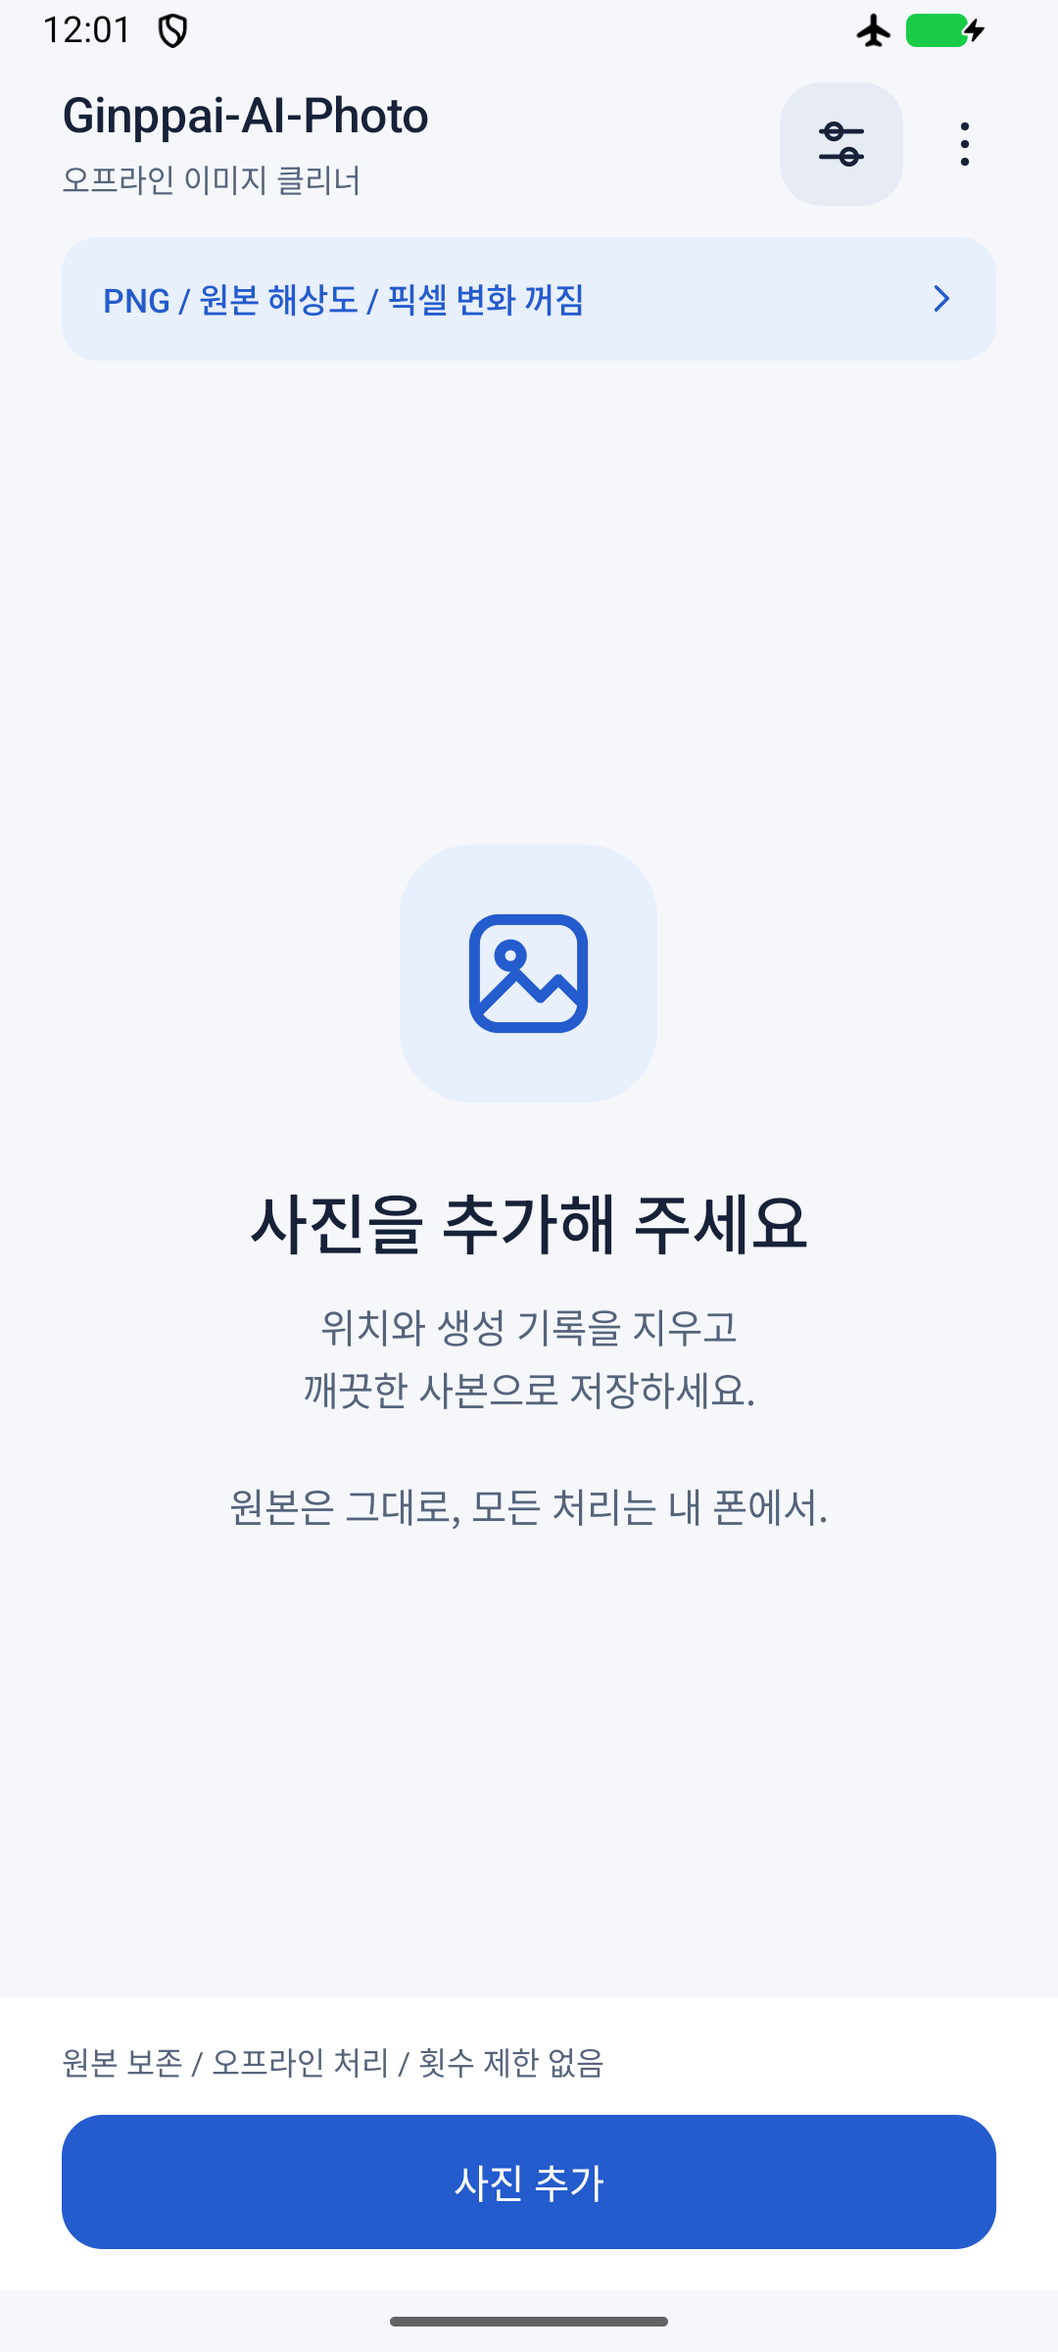
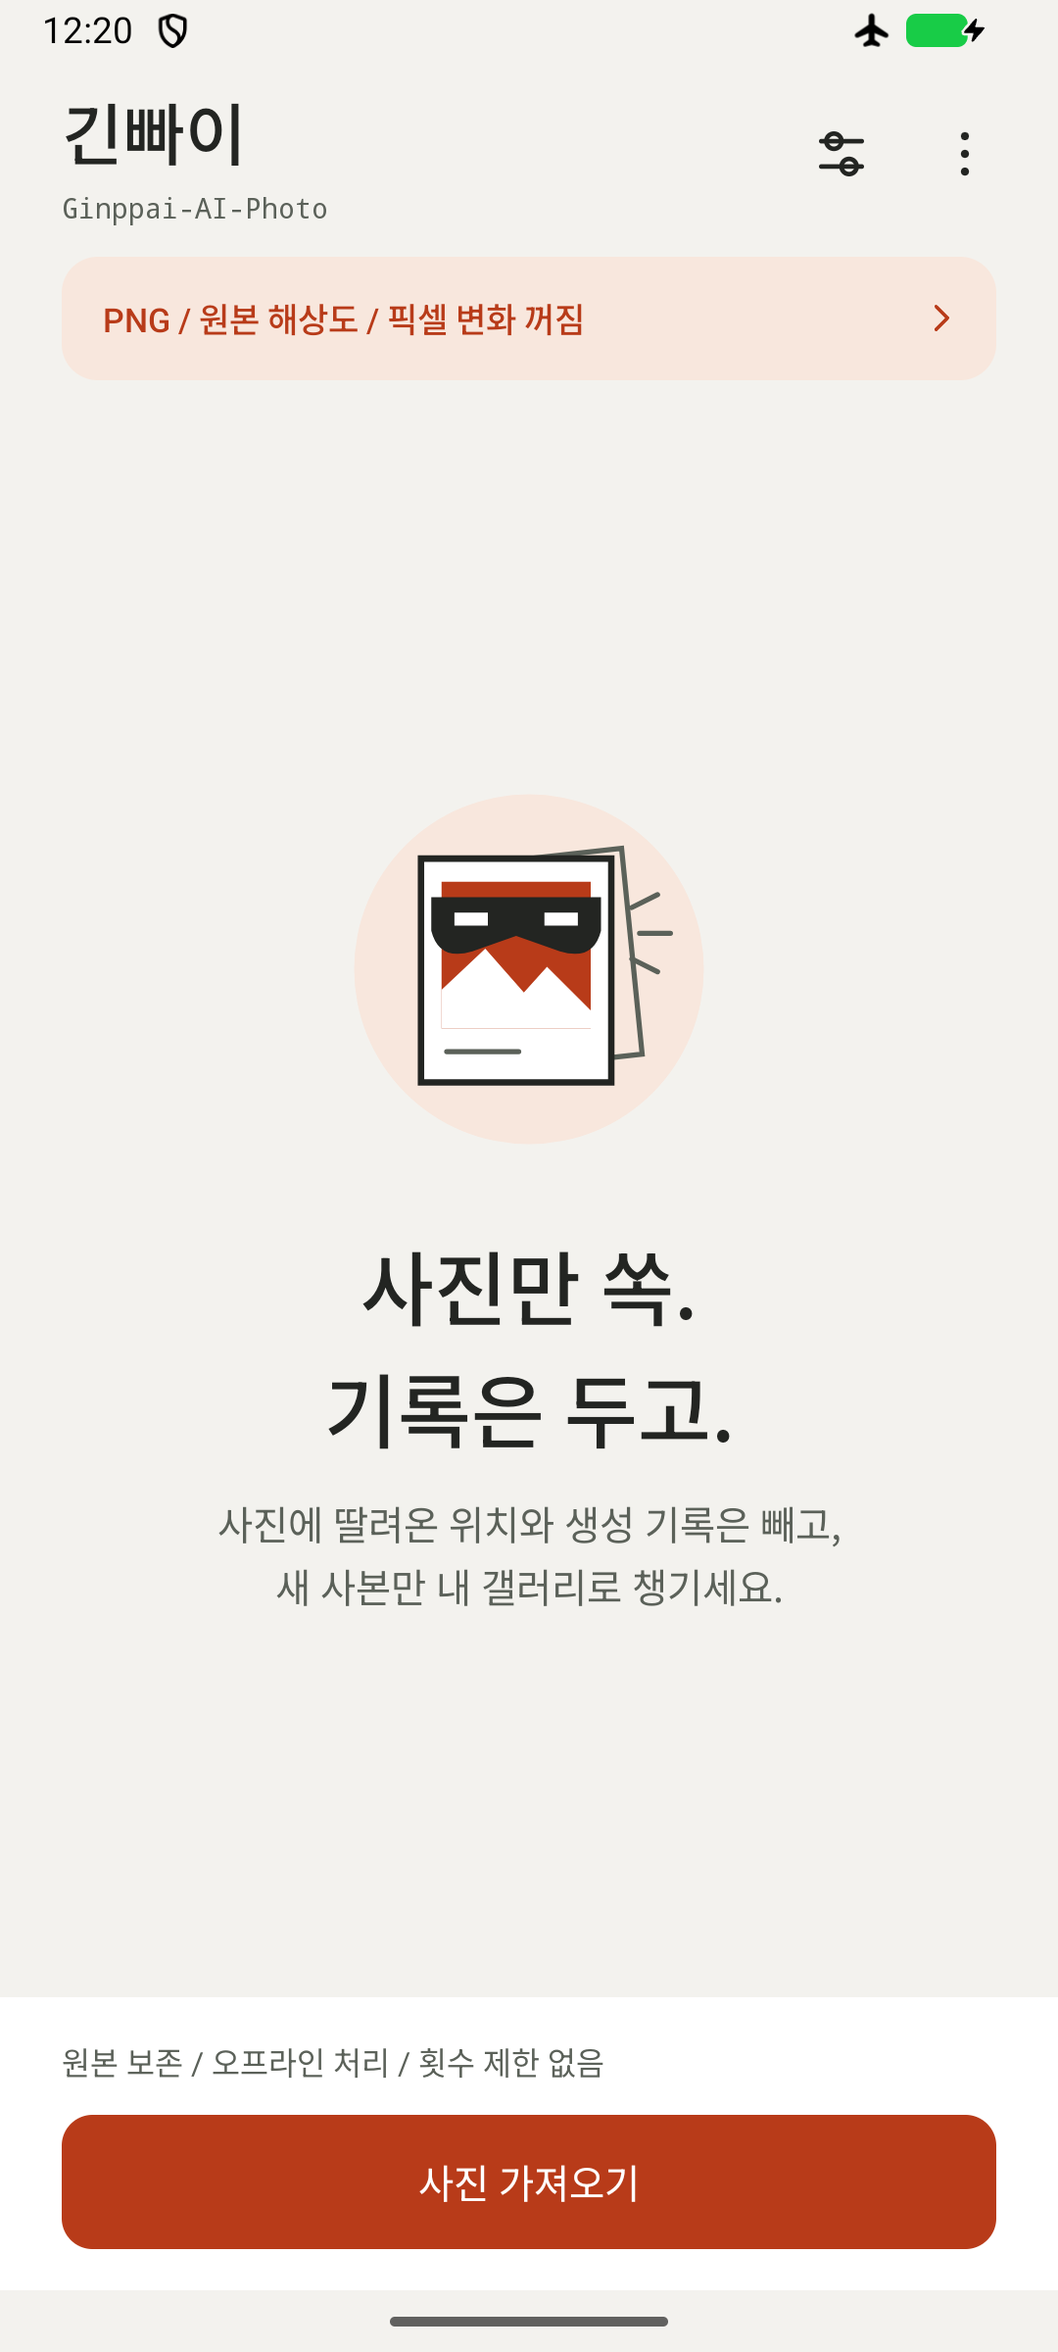
Release 1.3.0 with Ginppai branding and clear detection status

Changed region(s): [[0.2139, 0.3125, 0.7944, 0.6875], [0.0611, 0.0, 0.9472, 0.1875], [0.0611, 0.875, 0.9472, 0.9688]]

diff --git a/app/src/main/java/com/nogada/imageclean/MainActivity.java b/app/src/main/java/com/nogada/imageclean/MainActivity.java
@@ -117,7 +117,7 @@ public final class MainActivity extends Activity {
         button.setPadding(dp(16), dp(12), dp(16), dp(12));
         button.setTextColor(new ColorStateList(new int[][] {new int[] {-android.R.attr.state_enabled}, new int[] {}},
                 new int[] {color(R.color.secondary), color(filled ? R.color.on_accent : R.color.accent)}));
-        button.setBackground(Ui.ripple(this, filled ? R.color.accent : R.color.tint, 16));
+        button.setBackground(Ui.ripple(this, filled ? R.color.accent : R.color.tint, 12));
         return button;
     }
 
@@ -150,10 +150,14 @@ public final class MainActivity extends Activity {
         toolbar.setGravity(Gravity.CENTER_VERTICAL);
         toolbar.setPadding(dp(24), dp(8), dp(12), dp(8));
         LinearLayout branding = vertical();
-        TextView title = text(getString(R.string.app_name), 19, R.color.text, true);
+        TextView title = text("긴빠이", 26, R.color.text, true);
         title.setAccessibilityHeading(true);
         branding.addView(title);
-        if (!compact()) branding.addView(text("오프라인 이미지 클리너", 12, R.color.secondary, false), block(5));
+        if (!compact()) {
+            TextView wordmark = text(getString(R.string.app_name), 11, R.color.secondary, false);
+            wordmark.setTypeface(Typeface.MONOSPACE);
+            branding.addView(wordmark, block(5));
+        }
         toolbar.addView(branding, new LinearLayout.LayoutParams(0, -2, 1));
         settings = iconButton("settings", "저장 설정");
         settings.setId(R.id.settings_action);
@@ -226,12 +230,11 @@ public final class MainActivity extends Activity {
         empty.setGravity(Gravity.CENTER);
         empty.setPadding(dp(32), dp(20), dp(32), dp(20));
         ImageView illustration = new ImageView(this);
-        illustration.setImageDrawable(new Ui.Icon("photo", color(R.color.accent)));
-        illustration.setPadding(dp(22), dp(22), dp(22), dp(22));
-        illustration.setBackground(Ui.background(this, R.color.tint, 28));
+        illustration.setImageResource(R.drawable.ic_loot);
         illustration.setImportantForAccessibility(View.IMPORTANT_FOR_ACCESSIBILITY_NO);
-        if (!compact()) empty.addView(illustration, new LinearLayout.LayoutParams(dp(100), dp(100)));
-        emptyTitle = text("사진을 추가해 주세요", 25, R.color.text, true);
+        if (!compact()) empty.addView(illustration, new LinearLayout.LayoutParams(dp(144), dp(144)));
+        emptyTitle = text("", compact() ? 25 : 31, R.color.text, true);
+        emptyTitle.setId(R.id.empty_title);
         emptyTitle.setGravity(Gravity.CENTER);
         emptyTitle.setAccessibilityHeading(true);
         empty.addView(emptyTitle, block(compact() ? 0 : 28));
@@ -261,7 +264,7 @@ public final class MainActivity extends Activity {
         LinearLayout.LayoutParams addPosition = new LinearLayout.LayoutParams(dp(52), dp(52));
         addPosition.setMarginEnd(dp(12));
         actions.addView(add, addPosition);
-        primary = button("사진 추가", true);
+        primary = button("사진 가져오기", true);
         primary.setId(R.id.primary_action);
         primary.setOnClickListener(view -> startOrPause());
         actions.addView(primary, new LinearLayout.LayoutParams(0, -2, 1));
@@ -344,8 +347,14 @@ public final class MainActivity extends Activity {
         reprocess.setChecked(preferences.getBoolean("reprocess", false));
         content.addView(reprocess, block(20));
         content.addView(text("축소 후 복원과 색상 단순화로 일부 픽셀 신호를 약화합니다. 색상과 디테일이 손상될 수 있어요. 기본값은 꺼짐입니다.", 13, R.color.secondary, false), block(4));
-        content.addView(text("공개 워터마크 2종의 제한된 실험입니다. SynthID, 다른 워터마크와 AI 판별은 미검증이며, 검출되지 않아도 완전 제거를 뜻하지 않습니다.", 13, R.color.error, false), block(10));
-        content.addView(text("메타데이터 삭제와 AI 판별은 다릅니다. AI 표시나 보이지 않는 워터마크 제거는 보장하지 않습니다.", 13, R.color.secondary, false), block(20));
+        content.addView(text("SynthID 회피 기능이 아닙니다. 공개 워터마크 2종의 제한된 실험으로, 다른 워터마크와 AI 판별에는 효과가 검증되지 않았습니다.", 13, R.color.error, false), block(10));
+        Button detection = button("SynthID와 AI 표시 안내", false);
+        detection.setId(R.id.detection_info);
+        content.addView(detection, block(16));
+        detection.setOnClickListener(view -> new AlertDialog.Builder(this)
+                .setTitle("사진 저장과 AI 판별은 별개입니다")
+                .setMessage("파일 속 AI 생성 기록은 정리하지만 픽셀에 심긴 SynthID는 다릅니다.\n\n현재 앱에는 SynthID 검출기나 검증된 회피 기능이 없습니다. 실험 모드를 켜도 제거 성공으로 판정하지 않습니다.\n\nAI 표시 여부는 게시 플랫폼이 결정합니다. 메타데이터를 지워도 표시가 붙을 수 있습니다.")
+                .setPositiveButton("확인", null).show());
         Button apply = button("설정 적용", true);
         apply.setId(R.id.apply_settings);
         content.addView(apply, block(24));
@@ -378,7 +387,7 @@ public final class MainActivity extends Activity {
 
     private void showHelp() {
         LinearLayout content = vertical();
-        content.addView(text("1. 사진 선택\n여러 장을 고르거나 갤러리의 공유 메뉴에서 이 앱을 선택하세요.\n\n2. 정리하고 저장\n위치, 촬영 정보, 파일 안의 AI 생성 기록을 제거한 사본을 만듭니다. 원본은 그대로 둡니다.\n\n3. 바로 공유\n완료한 사진을 누르면 미리보기와 개별 공유가 가능합니다.", 15, R.color.text, false));
+        content.addView(text("사진만 쏙. 원본은 그대로.\n\n1. 사진 가져오기\n여러 장을 고르거나 갤러리의 공유 메뉴에서 긴빠이로 보내세요.\n\n2. 긴빠이하기\n위치, 촬영 정보, 파일 안의 AI 생성 기록을 덜어낸 새 사본을 갤러리에 저장합니다.\n\n3. 챙긴 사본 공유\n완료한 사진을 누르면 미리보기와 개별 공유가 가능합니다.\n\n저장 완료는 AI 판별 통과를 뜻하지 않습니다. SynthID 회피와 모든 워터마크 제거를 보장하지 않습니다.", 15, R.color.text, false));
         content.addView(text("저장 위치\nPictures/Ginppai-AI-Photo\n\n인터넷 연결, 계정, 광고, 사용 횟수 제한이 없습니다. 한 파일은 256 MB 이하이며 처리 가능 크기는 기기 메모리에 따라 달라집니다.\n\n동영상과 애니메이션은 지원하지 않습니다. 일부 HEIC/AVIF와 RAW는 기기 디코더에 따라 열리지 않을 수 있습니다.\n\n버전 " + BuildConfig.VERSION_NAME, 13, R.color.secondary, false), block(24));
         sheet("사용 안내", content);
     }
@@ -535,7 +544,7 @@ public final class MainActivity extends Activity {
         if ("done".equals(item.state)) return "저장 완료";
         if ("error".equals(item.state)) return "처리 실패";
         if ("missing".equals(item.state)) return "사본을 찾을 수 없음";
-        if ("working".equals(item.state) || "publishing".equals(item.state)) return "정리하는 중";
+        if ("working".equals(item.state) || "publishing".equals(item.state)) return "사본 챙기는 중";
         return "대기 중";
     }
 
@@ -568,9 +577,14 @@ public final class MainActivity extends Activity {
         content.addView(preview, new LinearLayout.LayoutParams(-1, dp(compact() ? 120 : 220)));
         loadPreview(preview, item.output.isEmpty() ? item.input : item.output, 480);
         content.addView(text(item.name, 16, R.color.text, true), block(16));
-        content.addView(text(item.details.isEmpty() ? "아래의 정리하기 버튼을 누르면 사본을 저장합니다." : item.details, 14, R.color.secondary, false), block(8));
+        content.addView(text(item.details.isEmpty() ? "홈의 긴빠이하기 버튼을 누르면 새 사본을 저장합니다." : item.details, 14, R.color.secondary, false), block(8));
         if ("done".equals(item.state)) {
             content.addView(text("갤러리에 저장된 사본입니다. 원본은 수정하지 않았습니다.", 13, R.color.secondary, false), block(12));
+            TextView detectionStatus = text("AI 검출: 검사하지 않음\nSynthID와 플랫폼 AI 표시는 저장 성공과 별개입니다.", 13, R.color.secondary, false);
+            detectionStatus.setId(R.id.detection_status);
+            detectionStatus.setPadding(dp(14), dp(12), dp(14), dp(12));
+            detectionStatus.setBackground(Ui.background(this, R.color.background, 10));
+            content.addView(detectionStatus, block(12));
             Button share = button("이 사진 공유", true);
             share.setOnClickListener(view -> { if (activeSheet != null) activeSheet.dismiss(); shareResults(item); });
             content.addView(share, block(20));
@@ -650,8 +664,8 @@ public final class MainActivity extends Activity {
         }
         filterBar.setVisibility(rows.isEmpty() ? View.GONE : View.VISIBLE);
         emptyState.setVisibility(visibleRows.isEmpty() ? View.VISIBLE : View.GONE);
-        emptyTitle.setText(rows.isEmpty() ? "사진을 추가해 주세요" : names[filter] + " 사진이 없습니다");
-        emptyBody.setText(rows.isEmpty() ? "위치와 생성 기록을 지우고\n깨끗한 사본으로 저장하세요.\n\n원본은 그대로, 모든 처리는 내 폰에서."
+        emptyTitle.setText(rows.isEmpty() ? "사진만 쏙.\n기록은 두고." : names[filter] + " 사진이 없습니다");
+        emptyBody.setText(rows.isEmpty() ? "사진에 딸려온 위치와 생성 기록은 빼고,\n새 사본만 내 갤러리로 챙기세요."
                 : "다른 목록을 선택하거나 사진을 더 추가하세요.");
         options.setText((preferences.getBoolean("jpeg", false) ? "JPEG / 작은 용량" : "PNG / 원본 해상도")
                 + (preferences.getBoolean("reprocess", false) ? " / 실험 모드 켜짐"
@@ -664,7 +678,8 @@ public final class MainActivity extends Activity {
         settings.setAlpha(settings.isEnabled() ? 1f : 0.4f);
         primary.setEnabled(!importing && !sharing && !(app.running && app.stopRequested));
         primary.setText(importing ? "사진 준비 중..." : sharing ? "공유 준비 중..." : app.running ? (app.stopRequested ? "현재 사진을 마치는 중..." : "현재 사진 후 중지")
-                : pending + retry > 0 ? (pending + retry) + "장 정리하기" : done > 0 ? "완료한 " + done + "장 공유" : "사진 추가");
+                : pending + retry > 0 ? (pending + retry) + "장 긴빠이하기" : done > 0 ? "챙긴 " + done + "장 공유" : "사진 가져오기");
+        primary.setContentDescription(primary.getText() + (pending + retry > 0 && !app.running ? ", 메타데이터를 정리한 사본 저장" : ""));
         progress.setVisibility(app.running ? View.VISIBLE : View.GONE);
         progress.setMax(Math.max(1, rows.size()));
         progress.setProgress(done + errors);
@@ -672,7 +687,7 @@ public final class MainActivity extends Activity {
         else if (importing) status.setText("선택한 사진을 안전하게 준비하고 있어요.");
         else if (app.running) status.setText("완료 " + done + " / " + rows.size() + "장" + (errors > 0 ? " / 실패 " + errors + "장" : ""));
         else if (errors > 0) status.setText("실패 " + errors + "장 / 사진을 눌러 원인을 확인하세요.");
-        else if (done > 0) status.setText("갤러리에 " + done + "장 저장 완료 / 원본 보존");
+        else if (done > 0) status.setText("사본 " + done + "장 챙겼어요 / 갤러리 저장 완료");
         else if (preferences.getBoolean("reprocess", false)) status.setText("실험 모드 / 색상과 디테일 손실 가능");
         else status.setText("원본 보존 / 오프라인 처리 / 횟수 제한 없음");
         status.setTextColor(color(errors > 0 || !app.storageError.isEmpty() ? R.color.error : R.color.secondary));

diff --git a/app/src/androidTest/java/com/nogada/imageclean/UiWorkflowTest.java b/app/src/androidTest/java/com/nogada/imageclean/UiWorkflowTest.java
@@ -86,7 +86,8 @@ public final class UiWorkflowTest extends InstrumentationTestCase {
         TextView status = activity.findViewById(R.id.status_label);
         View filterScroll = (View) filterAll.getParent().getParent();
 
-        assertEquals("사진 추가", primary.getText().toString());
+        assertEquals("사진 가져오기", primary.getText().toString());
+        assertEquals("사진만 쏙.\n기록은 두고.", ((TextView) activity.findViewById(R.id.empty_title)).getText().toString());
         assertTrue(primary.isEnabled());
         assertEquals(View.VISIBLE, emptyState.getVisibility());
         assertEquals(View.GONE, filterScroll.getVisibility());
@@ -112,6 +113,9 @@ public final class UiWorkflowTest extends InstrumentationTestCase {
         assertEquals("실패 1", filterError.getText().toString());
         assertTrue(filterAll.isSelected());
         assertEquals(4, queue.getAdapter().getCount());
+        Button primary = activity.findViewById(R.id.primary_action);
+        assertEquals("3장 긴빠이하기", primary.getText().toString());
+        assertTrue(primary.getContentDescription().toString().contains("사본 저장"));
 
         click(filterPending);
         assertTrue(filterPending.isSelected());
@@ -198,6 +202,22 @@ public final class UiWorkflowTest extends InstrumentationTestCase {
                 "PNG / 원본 해상도 / 픽셀 변화 꺼짐",
                 optionsSummary().getText().toString()
         );
+    }
+
+    public void testCompletedPhotoDistinguishesSavingFromAiDetection() throws Exception {
+        addQueueItem("완료 사진", "done");
+        launchActivity();
+        ListView queue = activity.findViewById(R.id.queue_list);
+        getInstrumentation().runOnMainSync(() -> {
+            View row = queue.getAdapter().getView(0, null, queue);
+            assertTrue(row.performClick());
+        });
+        getInstrumentation().waitForIdleSync();
+        TextView detection = activeSheet().findViewById(R.id.detection_status);
+        assertNotNull(detection);
+        assertTrue(detection.getText().toString().startsWith("AI 검출: 검사하지 않음"));
+        assertTrue(detection.getText().toString().contains("SynthID"));
+        assertEquals("챙긴 1장 공유", ((Button) activity.findViewById(R.id.primary_action)).getText().toString());
     }
 
     private void launchActivity() {

diff --git a/docs/VALIDATION.md b/docs/VALIDATION.md
@@ -1,4 +1,29 @@
-# 1.2.0 검증 기록
+# 검증 기록
+
+## 1.3.0
+
+2026-10-18, 로컬 Android ARM64 API 37 에뮬레이터에서 검사했습니다.
+
+| 항목 | 확인 결과 |
+| --- | --- |
+| 로컬 빌드 | Debug, AndroidTest, Release, lint 성공 |
+| 자동 테스트 | 29개 통과. 새 브랜드 문구, 작업 버튼의 실제 동작 설명, 저장과 AI 검출 상태 구분 포함 |
+| 릴리스 실행 | 시스템 파일 선택기에서 합성 QA 사진 선택, 긴빠이하기 버튼으로 갤러리 사본 저장 확인 |
+| 업데이트 | 서명된 1.2.0에 1.3.0을 덮어 설치한 뒤 기존 완료 사진 1장과 PNG 및 픽셀 옵션 유지 확인 |
+| 화면 | 홈, 설정, SynthID 안내, 다크 테마, 글씨 1.3배, 가로 화면 확인 |
+| 키 조작 | Tab으로 설정 버튼 포커스, Enter로 설정 화면 열림 |
+| 대비 | 라이트와 다크 14개 문자 및 배경 조합 모두 4.5:1 이상. 가장 낮은 조합 4.75:1 |
+| 동작 줄이기 | 시스템 애니메이션 배율 0에서 조작 확인. 별도 애니메이션 없음 |
+| APK | versionName 1.3.0, versionCode 4, 기존 인증서로 서명 검증 통과 |
+| 권한 | 인터넷, 전체 사진 및 저장소 접근 권한 없음 |
+| lint | 오류 0개, 문자열 국제화 경고 8개 |
+| 공개 범위 | 현재 소스와 문서에서 비교 서비스의 이름, URL 및 소개 제거 |
+
+이미지 처리 엔진은 1.2.0과 같습니다. 공개 워터마크 실험 수치를 SynthID 검증으로 재해석하지 않았습니다. 1.3.0에는 SynthID 검출기나 검증된 회피 기능이 없으며, 결과 화면도 `AI 검출: 검사하지 않음`을 표시합니다.
+
+실제 Galaxy에 1.3.0을 설치한 결과, Instagram의 표시, SynthID 양성 원본의 처리 전후 판정, TalkBack 음성 안내는 이번에 검증하지 않았습니다. 아래 1.2.0의 실험 수치는 그대로 보존합니다.
+
+## 1.2.0
 
 2026-10-18에 로컬 Android ARM64 에뮬레이터에서 실행했습니다. 개인 사진과 실제 계정은 사용하지 않았습니다.
 
@@ -38,4 +63,4 @@
 
 에뮬레이터 API 37에서 실행했고 minSdk 29와 targetSdk 35로 빌드했습니다. 모든 Android 10 이상 기기에서 같은 코덱과 성능을 보장한다는 의미는 아닙니다. 12비트 HEIC 같은 일부 프로필은 디코더가 거절할 수 있습니다.
 
-GitHub에는 로컬에서 서명한 APK와 체크섬을 올립니다. 서명 키, 비밀번호, 빌드 캐시, 원본 사이트 번들, 개인 경로와 실행 로그는 게시하지 않습니다. GitHub Actions는 비활성화합니다.
+GitHub에는 로컬에서 서명한 APK와 체크섬을 올립니다. 서명 키, 비밀번호, 빌드 캐시, 개인 경로와 실행 로그는 게시하지 않습니다. GitHub Actions는 비활성화합니다.

diff --git a/CHANGELOG.md b/CHANGELOG.md
@@ -1,5 +1,15 @@
 # 변경 내역
 
+## 1.3.0
+
+- 긴빠이 컨셉으로 홈, 아이콘, 라이트 및 다크 테마를 새로 만들었습니다.
+- 사진 가져오기, 긴빠이하기, 챙긴 사본 공유로 핵심 동선을 정리했습니다.
+- 작업 버튼의 접근성 설명에는 실제 동작인 메타데이터 정리와 사본 저장을 명시합니다.
+- 설정과 결과 화면에서 SynthID 대응 미검증 및 AI 검출 미실행을 분명히 구분합니다.
+- 비교 서비스에 대한 소개와 홈페이지 설명을 제거했습니다.
+- 검증되지 않은 변환을 SynthID 회피 기능으로 추가하지 않았습니다. 이미지 처리 엔진과 기본값은 1.2.0과 같습니다.
+- 패키지와 서명을 유지하며 기존 버전 위에 업데이트할 수 있습니다.
+
 ## 1.2.0
 
 - 기본값이 꺼진 실험적 픽셀 재처리 옵션을 추가했습니다.
